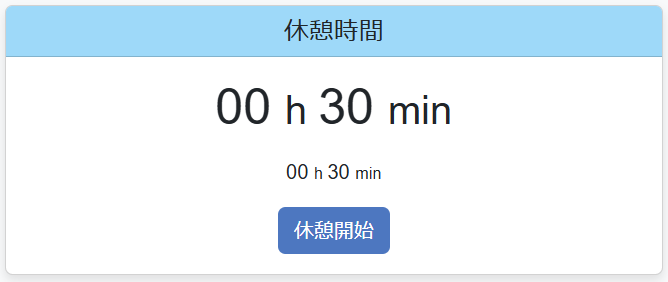
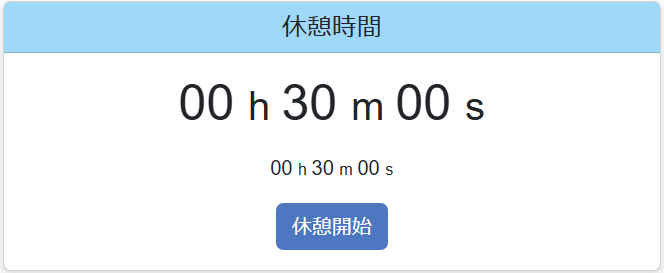
機能追加：秒数の表示・非表示を切り替えられるようにした。

diff --git a/script.js b/script.js
@@ -1,5 +1,6 @@
 'use strict';
 
+
 class Stopwatch{ // 作業時間ストップウォッチのデータを格納. 
     constructor(display, displayTotal, startStopButton, resetButton, tm, r){
         this.display = display; // 作業時間を表示するための変数. 
@@ -18,6 +19,8 @@ class Stopwatch{ // 作業時間ストップウォッチのデータを格納.
 
         this.tm = tm; // Timerクラスのインスタンスを格納. 
         this.r = r; // 作業時間と加算する休憩時間の比率. 
+
+        this.showSeconds = true; // 秒数を表示するかどうか. 
     }
 
     startStop(){ // 作業開始・中断ボタンを押すと呼び出される. 
@@ -67,12 +70,23 @@ class Stopwatch{ // 作業時間ストップウォッチのデータを格納.
 
             this.prevElapsedTime = 0; // 作業時間をリセット. 
         
-            this.display.innerHTML = `
-            00
-            <font size="6"> h </font>
-            00
-            <font size="6"> min </font>
-            `;
+            if(this.showSeconds){
+                this.display.innerHTML = `
+                00
+                <font size="6"> h </font>
+                00
+                <font size="6"> m </font>
+                00
+                <font size="6"> s </font>
+                `;
+            }else{
+                this.display.innerHTML = `
+                00
+                <font size="6"> h </font>
+                00
+                <font size="6"> m </font>
+                `;
+            }
         }
     }
 
@@ -83,12 +97,24 @@ class Stopwatch{ // 作業時間ストップウォッチのデータを格納.
         minutes = (minutes <= 9) ? `0${minutes}` : `${minutes}`;
         let seconds = Math.floor(time % (3600*1000) % (60*1000) / 1000);
         seconds = (seconds <= 9) ? `0${seconds}` : `${seconds}`;
-        this.display.innerHTML = `
-            ${hours}
-            <font size="6"> h </font>
-            ${minutes}
-            <font size="6"> min </font>
-        `;
+        if(this.showSeconds){
+            this.display.innerHTML = `
+                ${hours}
+                <font size="6"> h </font>
+                ${minutes}
+                <font size="6"> m </font>
+                ${seconds}
+                <font size="6"> s </font>
+            `;
+        }else{
+            this.display.innerHTML = `
+                ${hours}
+                <font size="6"> h </font>
+                ${minutes}
+                <font size="6"> m </font>
+            `;
+        }
+
     }
     
     displayTotalElapsedTime(time){
@@ -98,12 +124,24 @@ class Stopwatch{ // 作業時間ストップウォッチのデータを格納.
         minutes = (minutes <10) ? `0${minutes}` : minutes;
         let seconds = Math.floor(time % (3600*1000) % (60*1000) / 1000);
         seconds = (seconds <10) ? `0${seconds}` : seconds;
-        this.displayTotal.innerHTML = `
-        ${hours}
-        <font size="2"> h </font>
-        ${minutes}
-        <font size="2"> min </font>
-        `;
+        if(this.showSeconds){
+            this.displayTotal.innerHTML = `
+                ${hours}
+                <font size="2"> h </font>
+                ${minutes}
+                <font size="2"> m </font>
+                ${seconds}
+                <font size="2"> s </font>
+            `;
+        }else{
+            this.displayTotal.innerHTML = `
+                ${hours}
+                <font size="2"> h </font>
+                ${minutes}
+                <font size="2"> m </font>
+            `;
+        }
+
     }    
 }
 
@@ -123,6 +161,8 @@ class Timer{ // 休憩時間タイマーに用いるデータを格納.
 
         this.sw;
         this.allowNegative = false; // trueなら, 休憩時間がマイナスになっても止まらない. 
+
+        this.showSeconds = true; // 秒数を表示するかどうか. 
     }
 
     startStop(){  
@@ -177,13 +217,28 @@ class Timer{ // 休憩時間タイマーに用いるデータを格納.
         hours = (hours < 10) ? `0${hours}` : hours;
         let minutes = Math.floor(displayTime % (3600*1000) / (60*1000));
         minutes = (minutes < 10) ? `0${minutes}` : minutes;
+        let seconds = Math.floor(displayTime % (3600*1000) % (60*1000) / 1000);
+        seconds = (seconds < 10) ? `0${seconds}` : seconds;
+
+        if(this.showSeconds){
+            this.display.innerHTML = `
+                ${negativeSign}${hours}
+                <font size="6"> h </font>
+                ${minutes}
+                <font size="6"> m </font>
+                ${seconds}
+                <font size="6"> s </font>
+            `;
+        }else{
+            this.display.innerHTML = `
+                ${negativeSign}${hours}
+                <font size="6"> h </font>
+                ${minutes}
+                <font size="6"> m </font>
+            `;
+        }
     
-        this.display.innerHTML = `
-            ${negativeSign}${hours}
-            <font size="6"> h </font>
-            ${minutes}
-            <font size="6"> min </font>
-        `;
+
     }
     
     displayTotalRemainingTime(){
@@ -194,12 +249,23 @@ class Timer{ // 休憩時間タイマーに用いるデータを格納.
         let seconds = Math.floor(this.totalRemainingTime % (3600*1000) % (60*1000) / 1000);
         seconds = (seconds <10) ? `0${seconds}` : seconds;
     
-        this.displayTotal.innerHTML = `
-            ${hours}
-            <font size="2"> h </font>
-            ${minutes}
-            <font size="2"> min </font>
-        `;
+        if(this.showSeconds){
+            this.displayTotal.innerHTML = `
+                ${hours}
+                <font size="2"> h </font>
+                ${minutes}
+                <font size="2"> m </font>
+                ${seconds}
+                <font size="2"> s </font>
+            `;
+        }else{
+            this.displayTotal.innerHTML = `
+                ${hours}
+                <font size="2"> h </font>
+                ${minutes}
+                <font size="2"> m </font>
+            `;
+        }
     }
 
     // this.tm.addBreakTime(this.prevElapsedTime, this.r);
@@ -243,6 +309,7 @@ class inputRemainingTime{
 }
 
 
+
 const tm = new Timer(
     // display, displayTotal, startStopButton
     document.getElementById('tm-display'), 
@@ -266,9 +333,12 @@ const irt = new inputRemainingTime(
     document.getElementById('initialHours'), 
     document.getElementById('initialMinutes'), 
     document.getElementById('initialSeconds'), 
-    // document.getElementById('irt-errorMessage'),
     tm
 );
+
+// 最初の作業時間を反映させる. （0で固定. ）
+sw.displayElapsedTime(0);
+sw.displayTotalElapsedTime(0);
 
 // 最初の休憩時間を反映させる. 
 irt.calcRemainingTime(); 
@@ -297,12 +367,29 @@ ratioButton.addEventListener('click', function() {
     }
 });
 
-// 休憩時間のマイナスを許可するかどうかのチェックボックス. 
+// トグルスイッチで, 休憩時間のマイナスを許可する or しないの切り替え. 
 const allowNegative = document.getElementById('allowNegative');
 allowNegative.addEventListener('change', function() {
-    // チェックが入っていれば true, 外れていれば false
     tm.allowNegative = allowNegative.checked;
 });
 
 
+// トグルスイッチで, 秒数の表示・非表示を切り替え. 
+const hideSeconds = document.getElementById('hideSeconds');
+hideSeconds.addEventListener('change', function() {
+  const hideSecChecked = hideSeconds.checked;
 
+  sw.showSeconds = !hideSecChecked;
+  tm.showSeconds = !hideSecChecked;
+
+  if(!sw.running){ // 条件がfalseのとき（runningのとき）は, update()により自動で反映される. 
+    sw.displayElapsedTime(sw.prevElapsedTime);
+    sw.displayTotalElapsedTime(sw.totalElapsedTime);
+  }
+
+  if(!tm.running){ // 条件がfalseのとき（runningのとき）は, update()により自動で反映される. 
+    tm.displayRemainingTime();
+  }
+  tm.displayTotalRemainingTime();
+
+});

diff --git a/index.html b/index.html
@@ -41,18 +41,8 @@
                         <div class="h5 mb-0">作業時間</div>
                     </div>
                     <div class="card-body">
-                        <div id="sw-display" class="display-4 mb-3">
-                            00
-                            <font size="6"> h </font>
-                            00
-                            <font size="6"> min </font>
-                        </div>
-                        <div id="sw-displayTotal" class="mb-3">
-                            00
-                            <font size="2"> h </font>
-                            00
-                            <font size="2"> min </font>
-                        </div>
+                        <div id="sw-display" class="display-4 mb-3"></div>
+                        <div id="sw-displayTotal" class="mb-3"></div>
                         <button id="sw-startStopButton" class="btn default-color text-white">作業開始</button>
                         <button id="sw-resetButton" class="btn default-color text-white">リセット</button>
                     </div>
@@ -66,18 +56,8 @@
                         <div class="h5 mb-0">休憩時間</div>
                     </div>
                     <div class="card-body">
-                        <div id="tm-display" class="display-4 mb-3">
-                            00
-                            <font size="6"> h </font>
-                            00
-                            <font size="6"> min </font>
-                        </div>
-                        <div id="tm-displayTotal" class="mb-3">
-                            00
-                            <font size="2"> h </font>
-                            00
-                            <font size="2"> min </font>
-                        </div>
+                        <div id="tm-display" class="display-4 mb-3"></div>
+                        <div id="tm-displayTotal" class="mb-3"></div>
                         <button id="tm-startStopButton" class="btn default-color text-white">休憩開始</button>
                     </div>
                 </div>
@@ -133,12 +113,18 @@
                             <ul>
                                 <li>
                                     休憩時間にマイナスを許す：
-                                    <!-- トグルスイッチを追加する -->
                                     <div class="form-check form-switch d-inline-block ms-2">
                                         <input class="form-check-input" type="checkbox" role="switch" id="allowNegative">
                                         <label class="form-check-label" for="allowNegative">
                                             オン／オフ
                                         </label>
+                                    </div>
+                                </li>
+                                <li class="mt-2">
+                                    秒数を非表示：
+                                    <div class="form-check form-switch d-inline-block ms-2">
+                                        <input class="form-check-input" type="checkbox" role="switch" id="hideSeconds">
+                                        <label class="form-check-label" for="hideSeconds">オン／オフ</label>
                                     </div>
                                 </li>
                             </ul>

diff --git a/about.html b/about.html
@@ -141,11 +141,19 @@
                     <div class="card-body">
                         <ul class="list-group list-group-flush">
                             <li class="list-group-item">
-                                <strong>休憩時間にマイナスを許す：</strong><br>
-                                オンにすることで, 休憩時間が0未満になっても減り続けます. 
+                                細かい設定が可能です。
                                 <div class="text-center mt-4 mb-2">
                                     <img src="./images/other-option.png" class="img-fluid" alt="その他のオプション">
-                                </div>           
+                                </div> 
+                            </li>
+                            <li class="list-group-item">
+                                <strong>休憩時間にマイナスを許す：</strong><br>
+                                オンにすると、「休憩開始」押下後に休憩時間が0未満になってもタイマーが動き続けます。
+                            </li>
+                            
+                            <li class="list-group-item">
+                                <strong>秒数を非表示：</strong><br>
+                                秒数の表示・非表示を切り替えられます。なお、切り替えても時間はリセットされません。
                             </li>
                         </ul>
                     </div>
